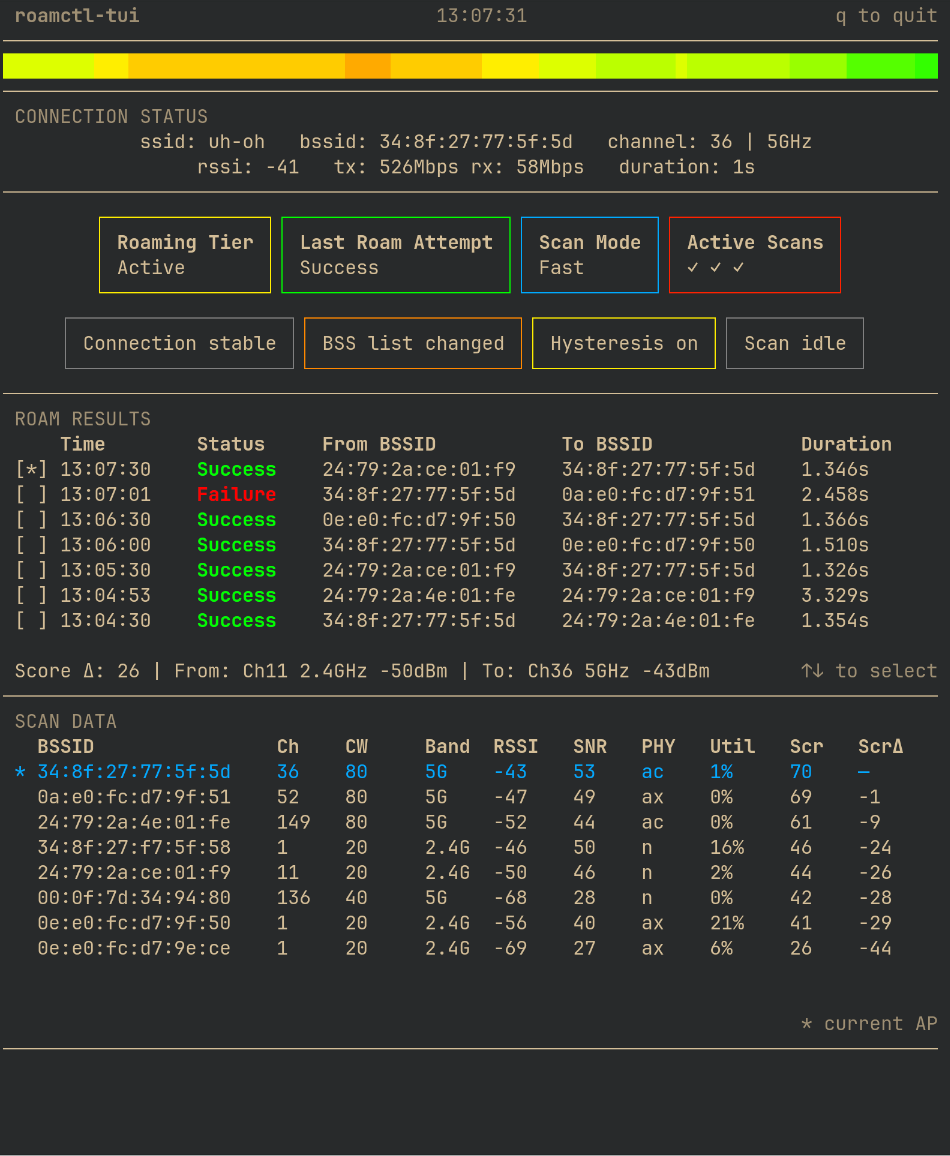
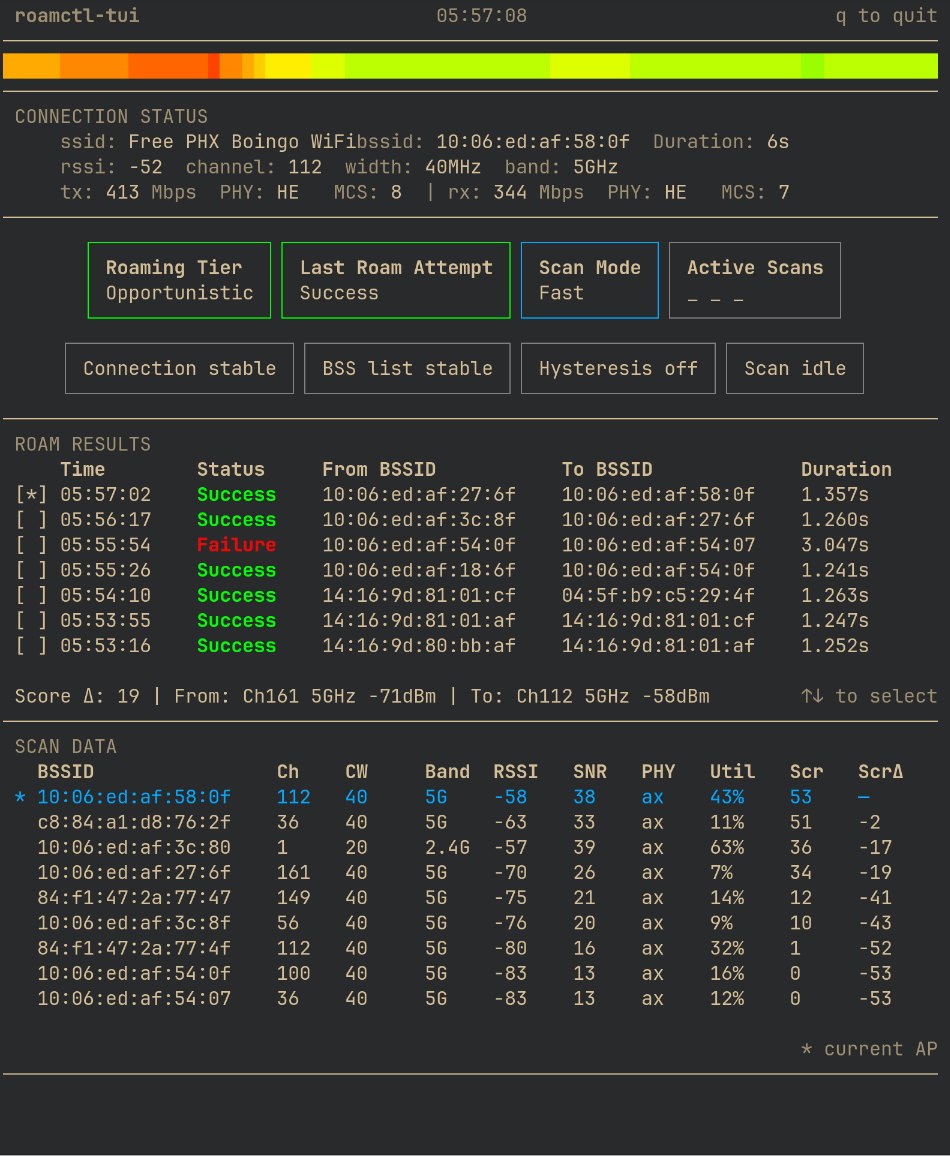
update readme and default config

diff --git a/internal/config/template.go b/internal/config/template.go
@@ -7,16 +7,16 @@ interface = "wlan0"
 [roaming_tiers]
 # These values set the floor of each RSSI tier, which dictate roaming logic
 # i.e. if fair_rssi is -67, -68 is in the "degraded" tier.
-excellent_rssi = -58
-fair_rssi = -67
+excellent_rssi = -50
+fair_rssi = -65
 degraded_rssi = -73
 # values lower than degraded are considered critical
 
 # Set score deltas required to roam per tier
 # Higher numbers mean candidate AP must be significantly better
-fair_score_delta = 9
-degraded_score_delta = 8
-critical_score_delta = 7
+fair_score_delta = 7
+degraded_score_delta = 6
+critical_score_delta = 4
 
 [stability]
 # sets cooldown duration after connection changed
@@ -28,7 +28,7 @@ connection_cooldown = "5s"
 # Unstable connection causes a roam attempt to fire
 retry_rate = 75
 data_rate = 10 #Mbps
-mcs_index = 1
+mcs_index = 2
 # modifier to penalize score of unhealthy AP, needed to encourage roaming to different AP
 unhealthy_score_mod = 20
 

diff --git a/README.md b/README.md
@@ -14,7 +14,7 @@ The roaming algorithm allows optimizing roaming performance, or it can be used t
 ### TUI
  `roamctl-tui` is included, which shows the live state of roamctl in a clean and compact interface:
  
-![Screenshot](docs/screenshots/tui2.png)
+![Screenshot](docs/screenshots/tui.png)
 
 
 ## Quick Start
@@ -169,26 +169,28 @@ interface = "wlan0"
 [roaming_tiers]
 # These values set the floor of each RSSI tier, which dictate roaming logic
 # i.e. if fair_rssi is -67, -68 is in the "degraded" tier.
-excellent_rssi = -58
-fair_rssi = -67
+excellent_rssi = -50
+fair_rssi = -65
 degraded_rssi = -73
 # values lower than degraded are considered critical
 
 # Set score deltas required to roam per tier
 # Higher numbers mean candidate AP must be significantly better
-fair_score_delta = 9
-degraded_score_delta = 8
-critical_score_delta = 7
+fair_score_delta = 7
+degraded_score_delta = 6
+critical_score_delta = 4
 
 [stability]
 # sets cooldown duration after connection changed
 # prevents roaming while cooldown is in effect
 connection_cooldown = "5s"
 
-# set maxmimum retry rate (percent) or minimum data rate (Mbps)
-# roam is entered when
+# set maxmimum retry rate (percent) or minimum data rate (Mbps) or min MCS index
+# Connection considered unstable when values outside of these bounds
+# Unstable connection causes a roam attempt to fire
 retry_rate = 75
 data_rate = 10 #Mbps
+mcs_index = 2
 # modifier to penalize score of unhealthy AP, needed to encourage roaming to different AP
 unhealthy_score_mod = 20
 
@@ -225,14 +227,14 @@ band = 35
 channel_width = 10
 phy_type = 15
 
-# RSSI has a multiplicative effect below the knee, using an exponential curve
-# This is implemented to ensure APs that approach unusable RSSI are scored correctly
+# RSSI has a multiplicative below the knee, using an exponential curve
 rssi_knee = -68
 rssi_exponent = 1.8
 
 [score_clamps]
 # Used for RSSI and SNR scoring.
 # Values below min are scored 0, values above max are score 100
+# Values between clamps are scored linearly
 min_rssi = -82
 max_rssi = -25
 min_snr = 10
